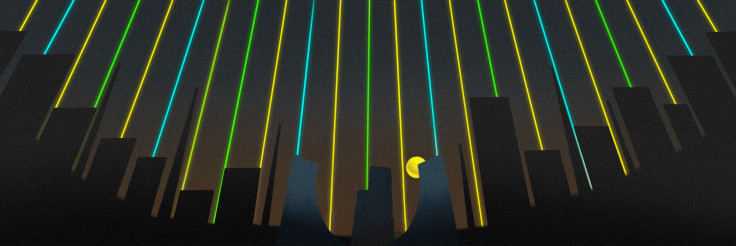
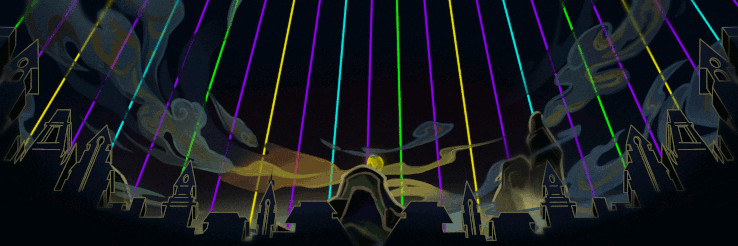
XPower UI: color=magenta (default)

diff --git a/routes/functions/env-of-home.test.ts b/routes/functions/env-of-home.test.ts
@@ -36,10 +36,10 @@ describe('env_of_home', () => {
                 xtoken: 'xpow',
                 xToken: 'XPow',
             }, ...{
-                XP_POWERED: 'var(--xp-lime)',
-                XP_POWERED_DARK: 'var(--xp-lime-dark)',
-                XP_POWEREDi: 'var(--xp-lime-i)',
-                XP_POWERED_DARKi: 'var(--xp-lime-dark-i)',
+                XP_POWERED: 'var(--xp-magenta)',
+                XP_POWERED_DARK: 'var(--xp-magenta-dark)',
+                XP_POWEREDi: 'var(--xp-magenta-i)',
+                XP_POWERED_DARKi: 'var(--xp-magenta-dark-i)',
             }, ...{
                 COVER_IMAGE: 'cover-none',
             }, ...{

diff --git a/routes/functions/env-of.test.ts b/routes/functions/env-of.test.ts
@@ -36,10 +36,10 @@ describe('env_of', () => {
                 xtoken: 'xpow',
                 xToken: 'XPow',
             }, ...{
-                XP_POWERED: 'var(--xp-lime)',
-                XP_POWERED_DARK: 'var(--xp-lime-dark)',
-                XP_POWEREDi: 'var(--xp-lime-i)',
-                XP_POWERED_DARKi: 'var(--xp-lime-dark-i)',
+                XP_POWERED: 'var(--xp-magenta)',
+                XP_POWERED_DARK: 'var(--xp-magenta-dark)',
+                XP_POWEREDi: 'var(--xp-magenta-i)',
+                XP_POWERED_DARKi: 'var(--xp-magenta-dark-i)',
             }, ...{
                 COVER_IMAGE: 'cover-none',
             }, ...{

diff --git a/views/theme/theme.scss b/views/theme/theme.scss
@@ -15,8 +15,8 @@
     --xp-blue-i: hsla(60, 100%, 50%, 1);
     --xp-blue-dark: hsla(225, 100%, 49%, 1);
     --xp-blue-dark-i: hsla(45, 100%, 51%, 1);
-    --xp-magenta: hsla(300, 100%, 50%, 1);
-    --xp-magenta-i: hsla(120, 100%, 50%, 1);
+    --xp-magenta: hsla(300, 100%, 67%, 1);
+    --xp-magenta-i: hsla(120, 100%, 33%, 1);
     --xp-magenta-dark: hsla(300, 100%, 75%, 1);
     --xp-magenta-dark-i: hsla(120, 100%, 25%, 1);
     --xp-red: hsla(0, 100%, 50%, 1);

diff --git a/source/params/parsers.ts b/source/params/parsers.ts
@@ -40,7 +40,7 @@ export function clearAll(
     return Parser.boolean(params.get('clear-all'), false);
 }
 export function color(
-    params: URLSearchParams, fallback = ThemeColor.lime
+    params: URLSearchParams, fallback = ThemeColor.magenta
 ): ThemeColor | RGB {
     const key = params.get('color');
     if (typeof key === 'string') {
